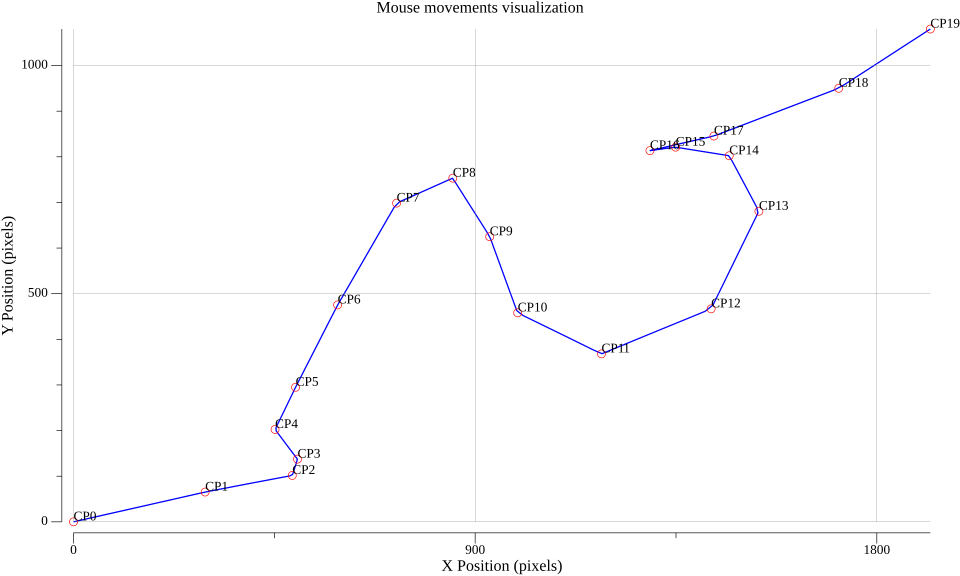
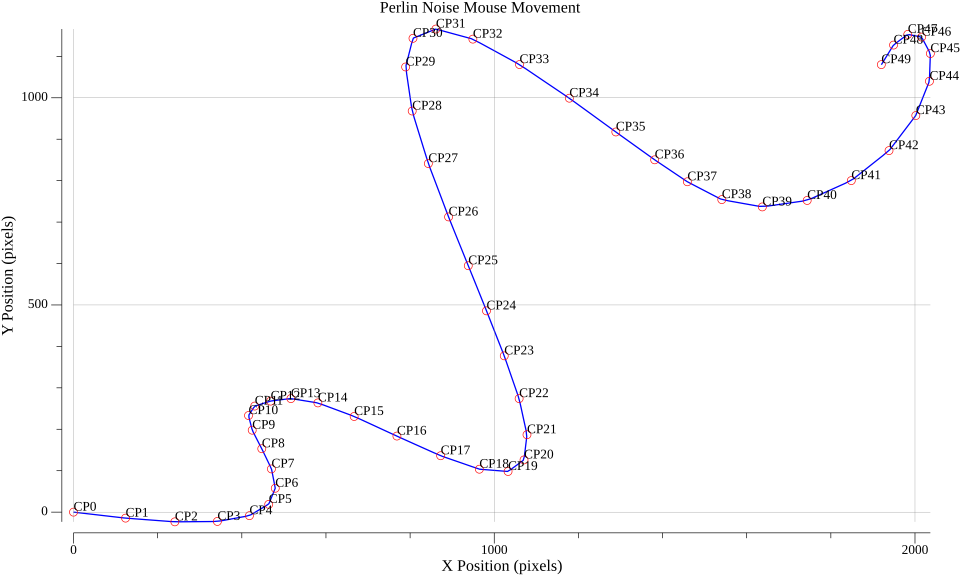
updated IMG for Perlin Noise

diff --git a/tests/perlin_test.go b/tests/perlin_test.go
@@ -14,7 +14,7 @@ func TestPerlin(t *testing.T) {
 		EndPoint:      types.Point{X: 1920, Y: 1080},
 		NoiseLevel:    1,
 		Resolution:    types.Point{X: 1920, Y: 1080},
-		ControlPoints: 20,
+		ControlPoints: 50,
 		Speed:         1000,
 	}
 
